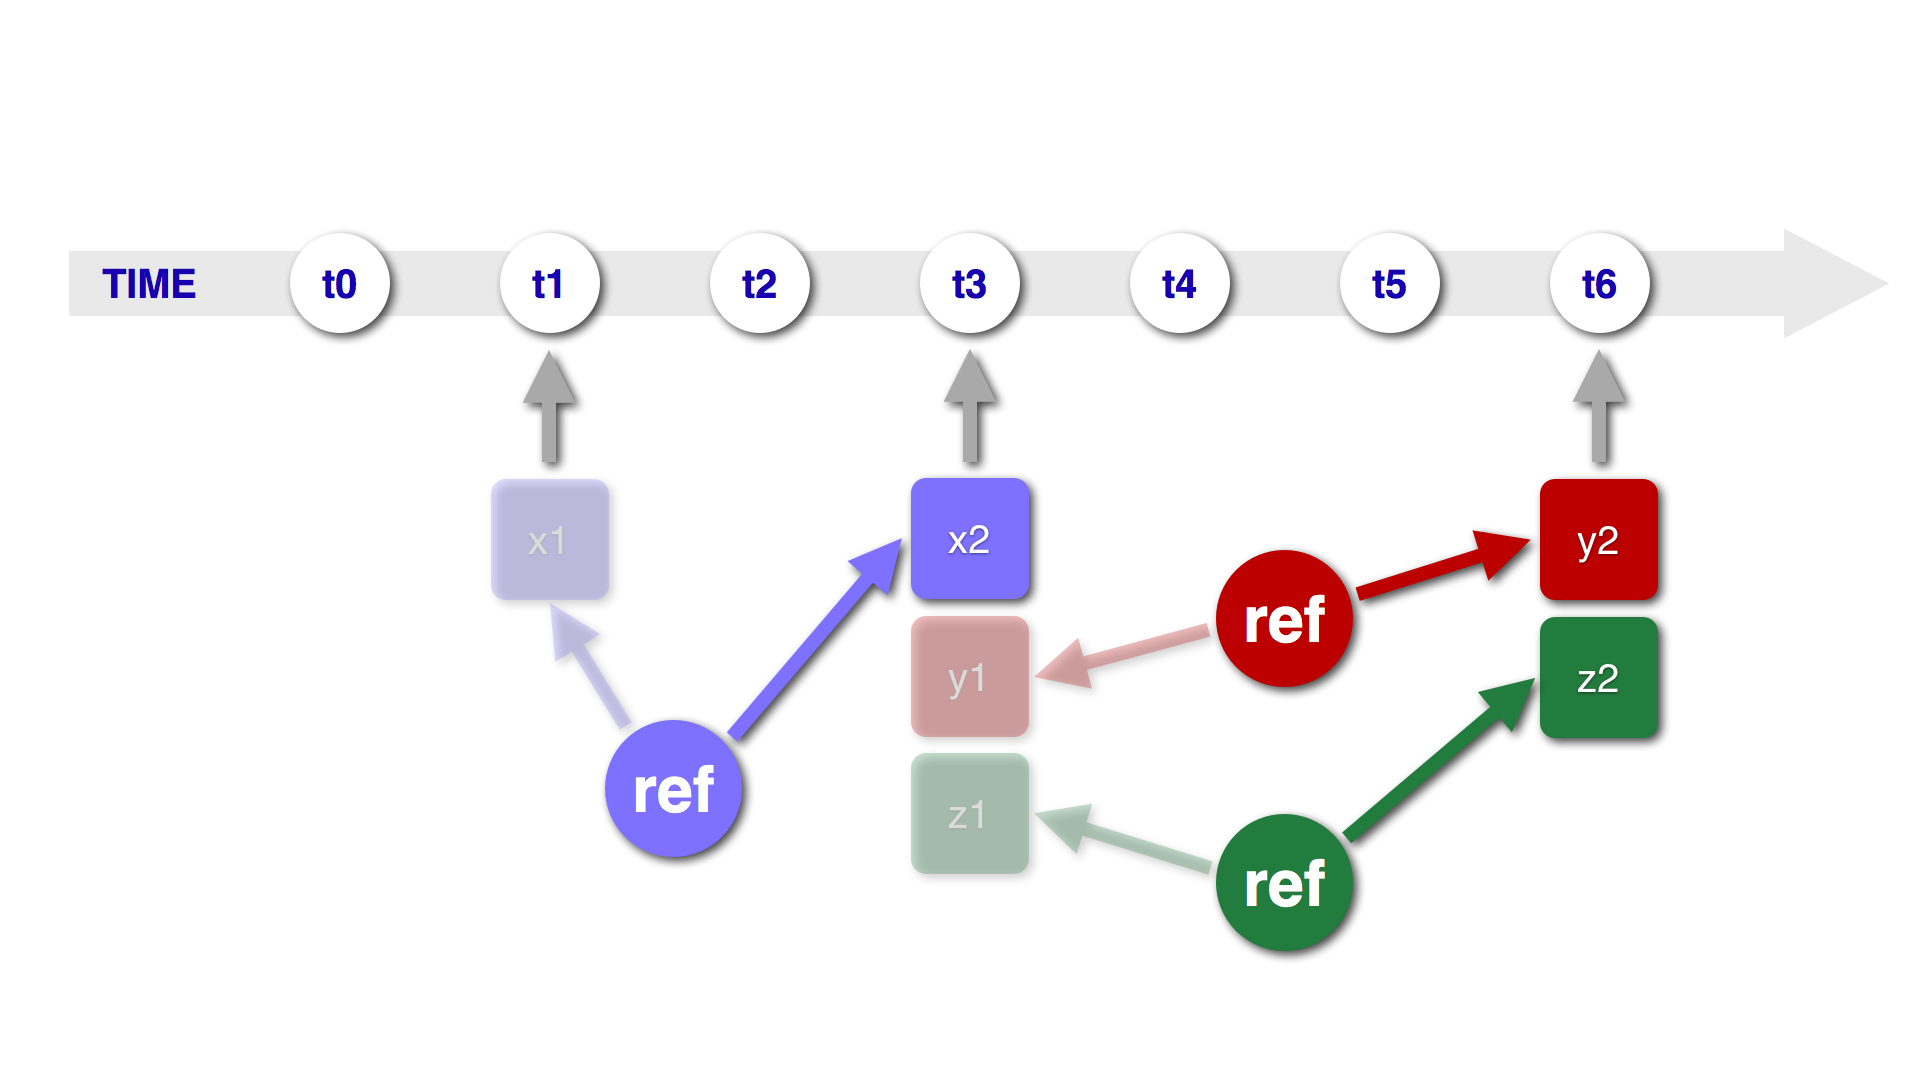
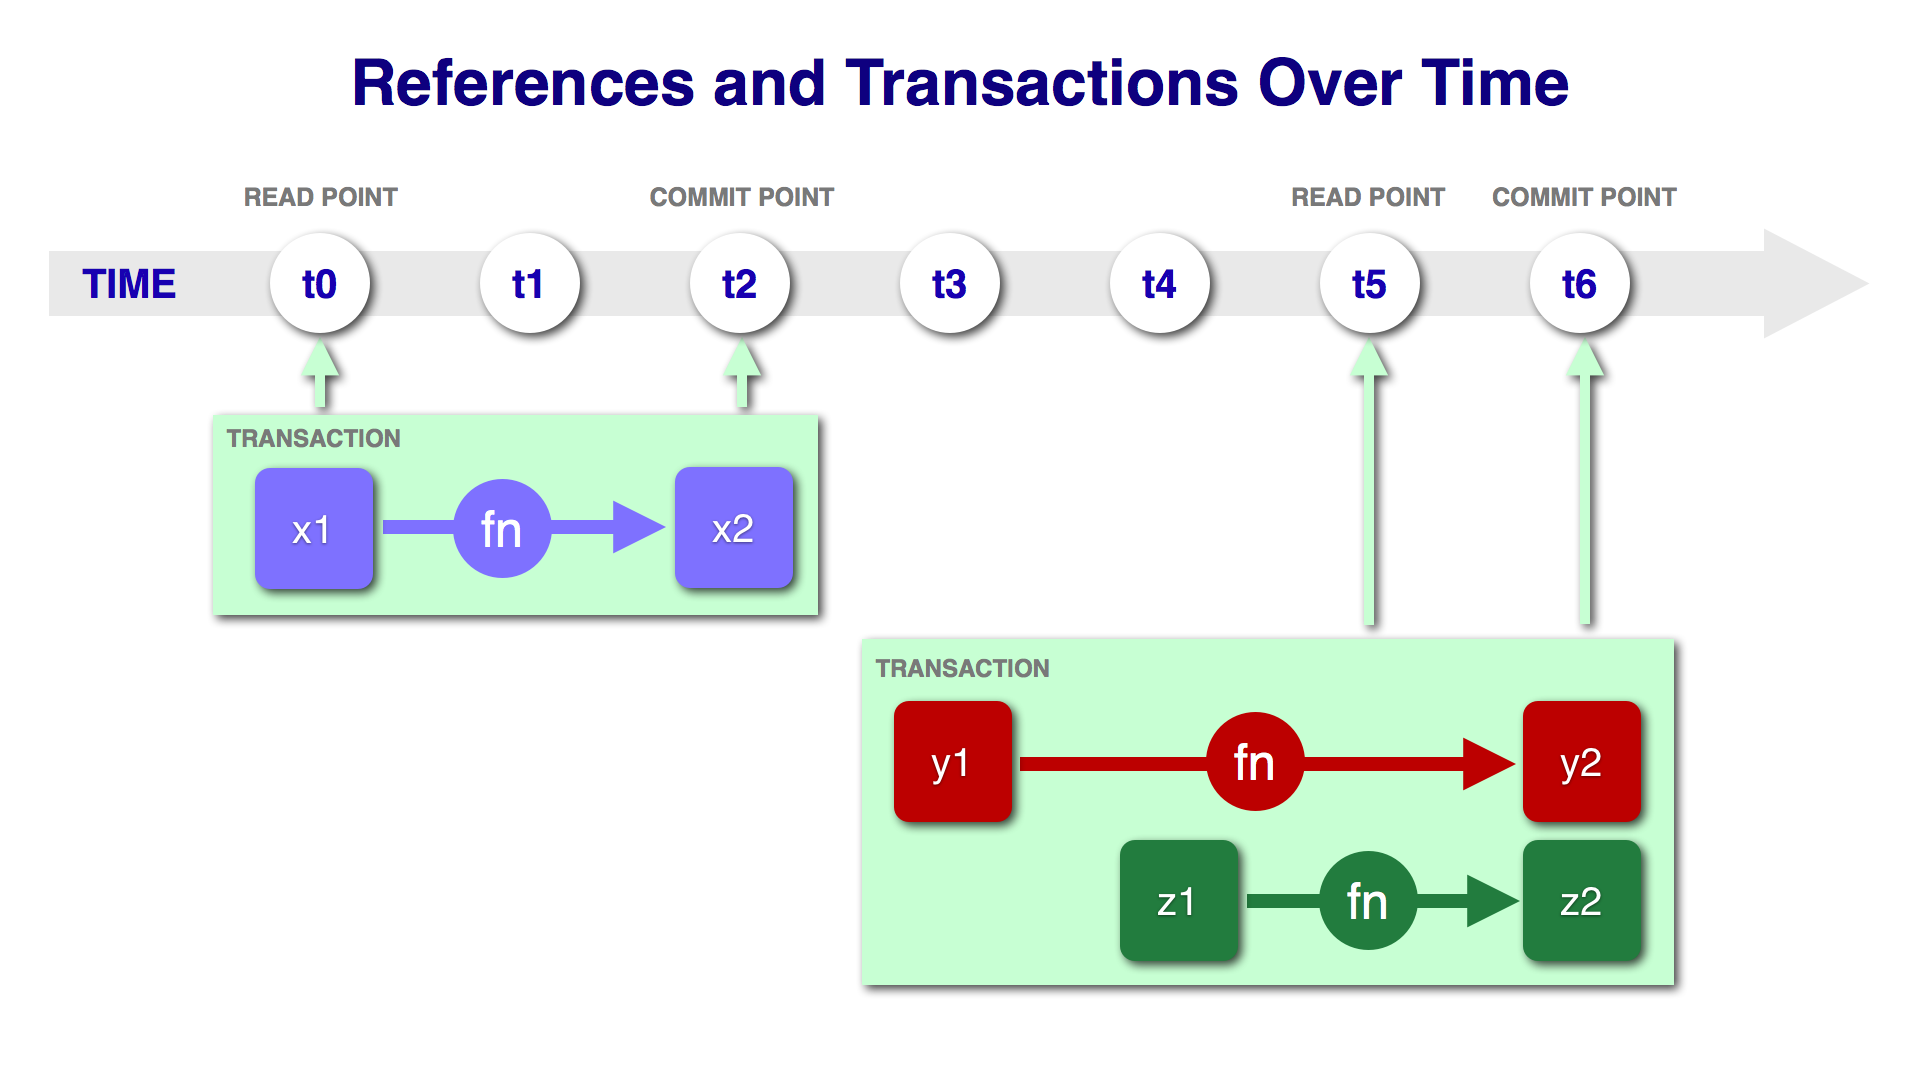
updated diagrams

diff --git a/README.md b/README.md
@@ -60,11 +60,11 @@ To create a new type of atom backed by your favorite network-accessible, CAS-cap
 
 
 
-## Design of avout.transaction
+## Design of avout.ref
 
 ### Transaction Reference Protocols
 
-Transactions are system- and thread-local (as are Clojure's dosync transactions) but the transaction references (Refs) that participate and processes that access them may be distributed across multiple JVMs and/or systems. 
+Transactions support synchronous change to multiple References. Transactions are system- and thread-local (as are Clojure's dosync transactions) but the transaction references (Refs) that participate and processes that access them may be distributed across multiple JVMs and/or systems. 
 
 New types of Refs can be created by implementing the **ReferenceData** protocol.
 
